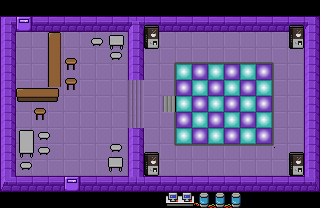
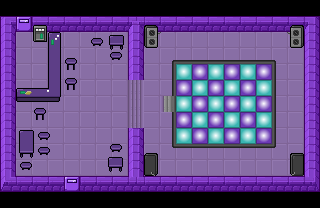
0.4.4.11 creation of assets for nightClub

diff --git a/ReversedRebecca/src/com/sunsigne/reversedrebecca/Infos.java b/ReversedRebecca/src/com/sunsigne/reversedrebecca/Infos.java
@@ -17,7 +17,7 @@ public class Infos {
 	////////// GAME ////////////
 
 	public static final String NAME = "Reversed Rebecca";
-	public static final String VERSION = "v.0.4.4.10";
+	public static final String VERSION = "v.0.4.4.11";
 	// public static final boolean IS_DEV_VERSION =
 	// System.getProperty("java.class.path").contains("\\git\\");
 	public static boolean IS_DEV_VERSION = true;
